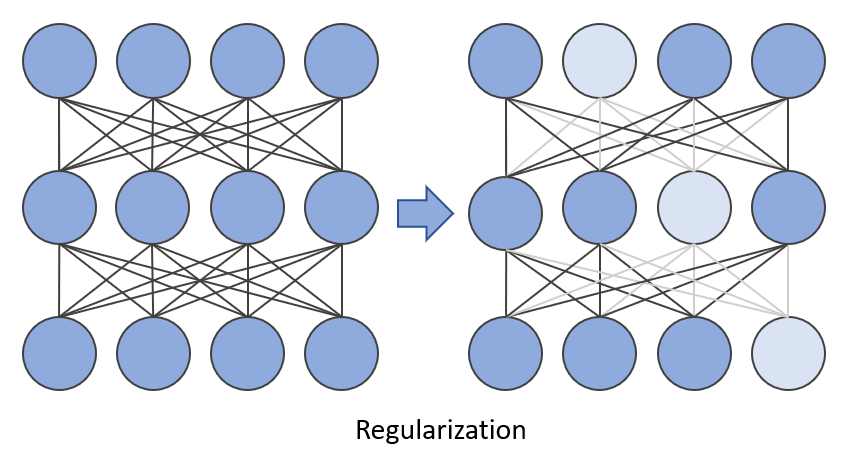
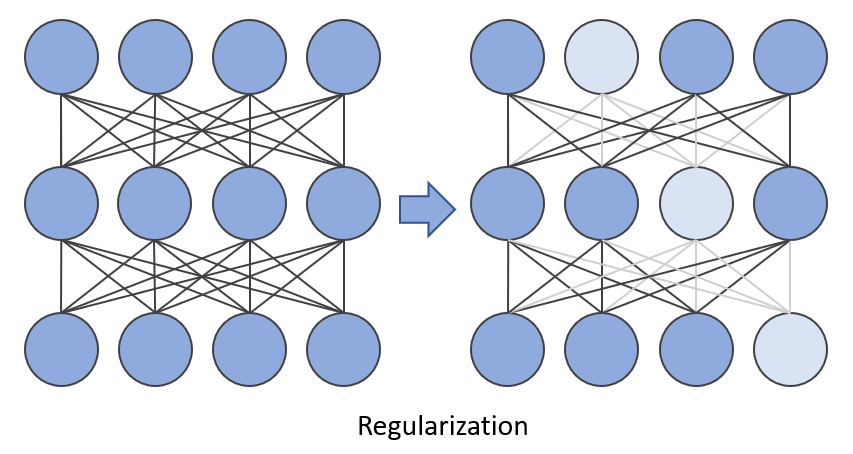
pruning doc   V1.5

diff --git a/neural_compressor/prune/README.md b/neural_compressor/prune/README.md
@@ -48,7 +48,7 @@ Neural network pruning is a promising model compression technique that removes t
 A detailed explanation of pruning technique and results could be found in  [Pruning details](../../docs/source/pruning_details.md#introduction).
 
 <a target="_blank" href="./../../docs/source/_static/imgs/pruning/pruning.PNG">
-    <img src="./../../docs/source/_static/imgs/pruning/pruning.PNG" width=360 height=160 alt="pruning intro">
+    <img src="./../../docs/source/_static/imgs/pruning/pruning.PNG" width=340 height=160 alt="pruning intro">
 </a>
 
 
@@ -70,7 +70,7 @@ Pruning patterns defines the rules of pruned weights' arrangements in space. INC
 Pruning Criteria determines how should the weights of a neural network be scored and pruned. In the image below, pruning scores are represented by neurons' color and those with the lowest scores are pruned. The magnitude and gradient are widely used to score the weights. Currently, INC supports magnitude, snip and snip_momentum criteria. [Details](../../docs/source/pruning_details.md#pruning-criteria).
 
 <a target="_blank" href="./../../docs/source/_static/imgs/pruning/pruning_criteria.PNG">
-    <img src="./../../docs/source/_static/imgs/pruning/pruning_criteria.PNG" width=360 height=160 alt="Pruning criteria">
+    <img src="./../../docs/source/_static/imgs/pruning/pruning_criteria.PNG" width=340 height=160 alt="Pruning criteria">
 </a>
 
 
@@ -83,7 +83,7 @@ Pruning schedule defines the way the model reach the target sparsity (the ratio 
 - One-shot Pruning
 
 <a target="_blank" href="./../../docs/source/_static/imgs/pruning/oneshot_pruning.PNG">
-    <img src="./../../docs/source/_static/imgs/pruning/oneshot_pruning.PNG" width=360 height=160 alt="Pruning criteria">
+    <img src="./../../docs/source/_static/imgs/pruning/oneshot_pruning.PNG" width=340 height=160 alt="Pruning criteria">
 </a>
 
 - Iterative Pruning
@@ -102,7 +102,7 @@ Regularization is a technique that discourages learning a more complex model and
 [Details](../../docs/source/pruning_details.md#regularization).
 
 <a target="_blank" href="./../../docs/source/_static/imgs/pruning/Regularization.PNG">
-    <img src="./../../docs/source/_static/imgs/pruning/Regularization.PNG" width=360 height=160 alt="Regularization">
+    <img src="./../../docs/source/_static/imgs/pruning/Regularization.PNG" width=340 height=160 alt="Regularization">
 </a>
 
 
